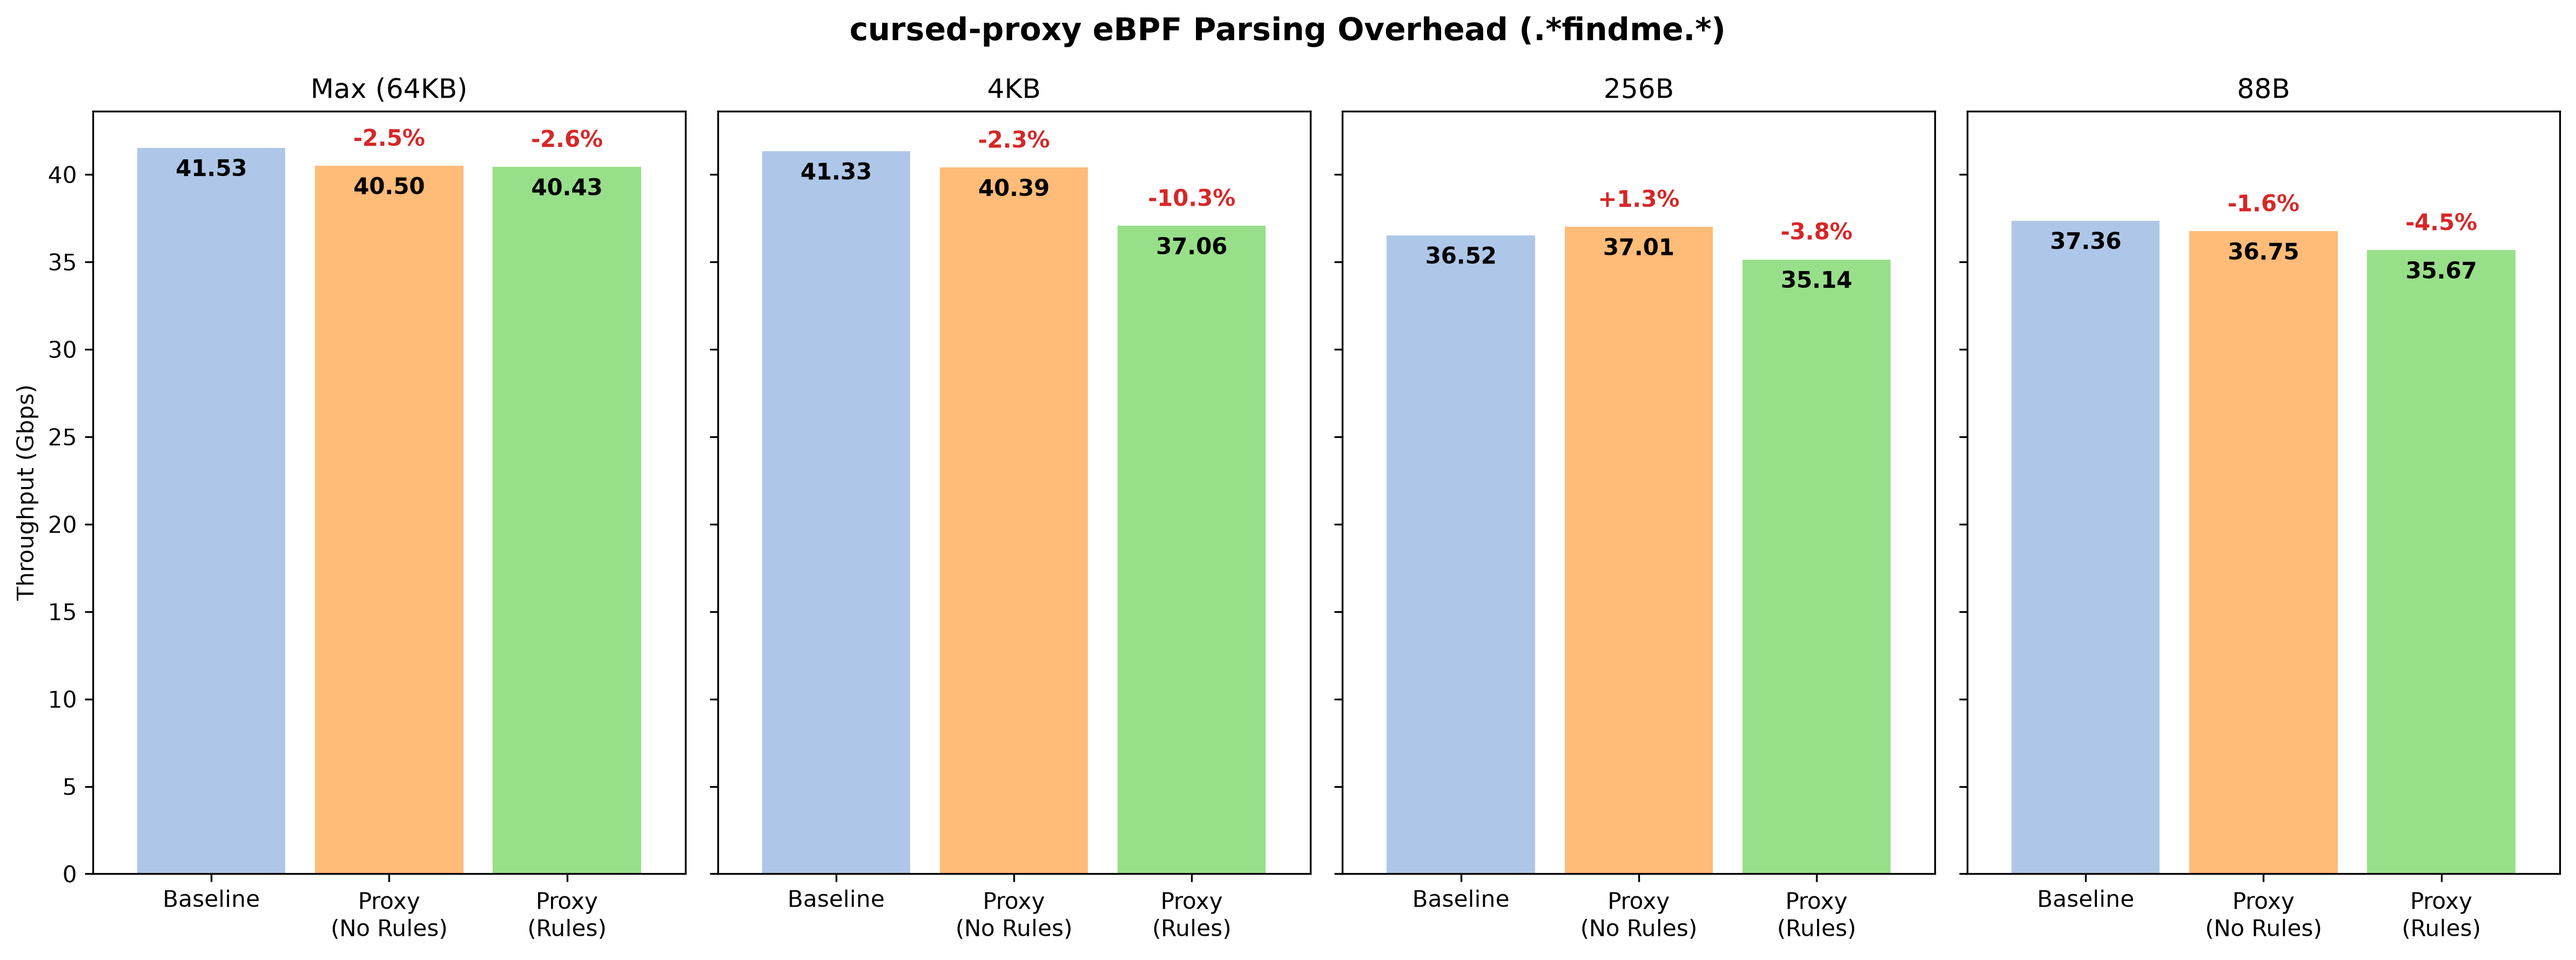
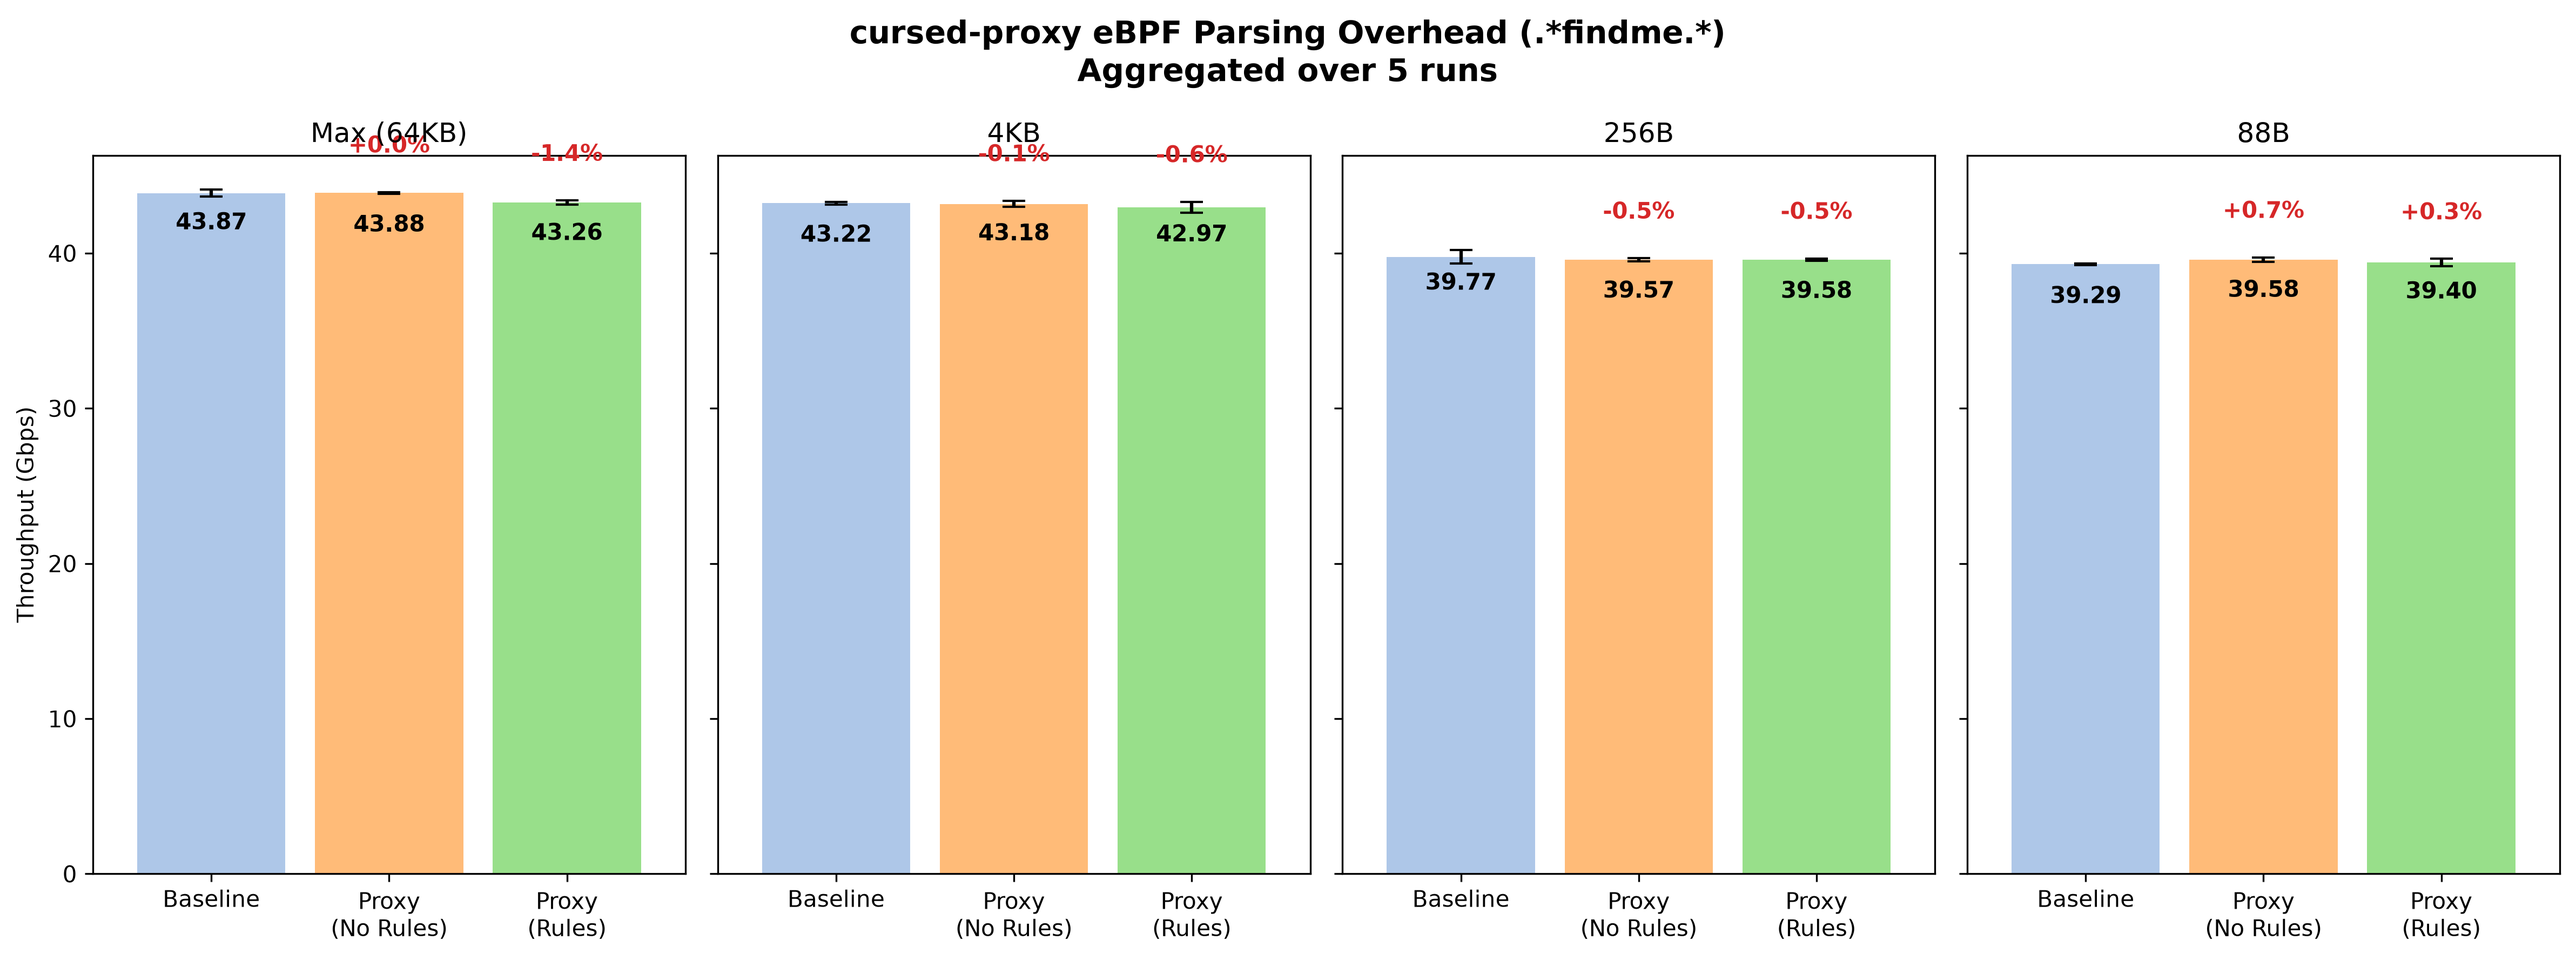
added benchmark to make

diff --git a/packages/cursed_proxy/tests/benchmark.py b/packages/cursed_proxy/tests/benchmark.py
@@ -3,6 +3,8 @@ import multiprocessing
 import os
 import sys
 import time
+import random
+import statistics
 import matplotlib
 
 matplotlib.use('Agg')  # Fixes X11 authorization errors when running via sudo
@@ -17,12 +19,30 @@ DEFAULT_WARMUP = 3
 DEFAULT_PATTERN = ".*findme.*"
 PROXY_CONF = "benchmark_proxy.conf"
 
+SERVER_IP = "10.254.254.1"
+CLIENT_IP = "10.254.254.2"
+VETH_SERVER = "cproxy_veth0"
+VETH_CLIENT = "cproxy_veth1"
+
+def setup_veth_pair():
+    print(f"Setting up veth pair: {VETH_SERVER} <-> {VETH_CLIENT}")
+    subprocess.run(["ip", "link", "add", VETH_SERVER, "type", "veth", "peer", "name", VETH_CLIENT], check=True, stdout=subprocess.DEVNULL)
+    subprocess.run(["ip", "addr", "add", f"{SERVER_IP}/24", "dev", VETH_SERVER], check=True, stdout=subprocess.DEVNULL)
+    subprocess.run(["ip", "addr", "add", f"{CLIENT_IP}/24", "dev", VETH_CLIENT], check=True, stdout=subprocess.DEVNULL)
+    subprocess.run(["ip", "link", "set", VETH_SERVER, "up"], check=True, stdout=subprocess.DEVNULL)
+    subprocess.run(["ip", "link", "set", VETH_CLIENT, "up"], check=True, stdout=subprocess.DEVNULL)
+    # wait for interfaces to be fully ready
+    time.sleep(1)
+
+def teardown_veth_pair():
+    subprocess.run(["ip", "link", "del", VETH_SERVER], stderr=subprocess.DEVNULL, stdout=subprocess.DEVNULL)
 
 def run_iperf_server(port):
     """Run iperf3 server in an infinite loop."""
     while True:
         server = iperf3.Server()
         server.port = port
+        server.bind_address = SERVER_IP
         server.run()
         # Clean up the server object to avoid state issues between connections
         del server
@@ -30,7 +50,7 @@ def run_iperf_server(port):
 
 def run_iperf_client(port, duration, blksize=None):
     """Run iperf3 client and return bits per second."""
-    cmd = ["iperf3", "-c", "127.0.0.1", "-p", str(port), "-t", str(duration), "-J"]
+    cmd = ["iperf3", "-c", SERVER_IP, "-B", CLIENT_IP, "-p", str(port), "-t", str(duration), "-J"]
     if blksize:
         # Use TCP MSS (-M) to simulate small packets on the network without syscall overhead
         cmd.extend(["-M", str(blksize)])
@@ -53,7 +73,7 @@ def run_iperf_client(port, duration, blksize=None):
 
 def run_iperf_warmup(port, duration, blksize=None):
     """Short iperf3 run to warm up kernel caches."""
-    cmd = ["iperf3", "-c", "127.0.0.1", "-p", str(port), "-t", str(duration), "-Z"]
+    cmd = ["iperf3", "-c", SERVER_IP, "-B", CLIENT_IP, "-p", str(port), "-t", str(duration), "-Z"]
     if blksize:
         cmd.extend(["-M", str(blksize)])
         
@@ -75,6 +95,7 @@ def parse_args():
     parser.add_argument("-p", "--port", type=int, default=DEFAULT_PORT, help=f"iperf3 server port (default: {DEFAULT_PORT})")
     parser.add_argument("-t", "--time", type=int, default=DEFAULT_TIME, help=f"iperf3 test duration in seconds (default: {DEFAULT_TIME})")
     parser.add_argument("-w", "--warmup", type=int, default=DEFAULT_WARMUP, help=f"warmup duration in seconds (default: {DEFAULT_WARMUP})")
+    parser.add_argument("-r", "--runs", type=int, default=5, help="Number of times to run the suite for statistical significance (default: 5)")
     parser.add_argument("--pattern", type=str, default=DEFAULT_PATTERN, help=f"DFA pattern to benchmark (default: '{DEFAULT_PATTERN}')")
     parser.add_argument("--out-png", type=str, default="benchmark_results.png", help="Output PNG file for the chart")
     parser.add_argument("--out-txt", type=str, default="benchmark_results.txt", help="Output TXT file for the results")
@@ -82,79 +103,79 @@ def parse_args():
 
 
 def plot_results(results, simulations, args):
+    # Sort simulations back to canonical order since they were randomized
     labels = [sim["name"] for sim in simulations]
 
-    # We create subplots for each simulation. Sharing Y-axis as requested.
     fig, axes = plt.subplots(1, len(labels), figsize=(16, 6), sharey=True)
     if len(labels) == 1:
         axes = [axes]
 
-    pastel_colors = ['#aec7e8', '#ffbb78', '#98df8a']  # Pastel Blue, Pastel Orange, Pastel Green
+    pastel_colors = ['#aec7e8', '#ffbb78', '#98df8a']
 
     # Calculate global max for padding text
-    all_vals = [results["Baseline"].get(n, 0) / 1e9 for n in labels] + \
-               [results["Proxy (No Rules)"].get(n, 0) / 1e9 for n in labels] + \
-               [results["Proxy"].get(n, 0) / 1e9 for n in labels]
+    all_vals = [results["Baseline"].get(n, {}).get("mean", 0) / 1e9 for n in labels] + \
+               [results["Proxy (No Rules)"].get(n, {}).get("mean", 0) / 1e9 for n in labels] + \
+               [results["Proxy"].get(n, {}).get("mean", 0) / 1e9 for n in labels]
     global_max = max(all_vals) if all_vals else 1
 
     for i, sim_name in enumerate(labels):
         ax = axes[i]
-        b_val = results["Baseline"].get(sim_name, 0) / 1e9
-        nr_val = results["Proxy (No Rules)"].get(sim_name, 0) / 1e9
-        p_val = results["Proxy"].get(sim_name, 0) / 1e9
+        b_mean = results["Baseline"].get(sim_name, {}).get("mean", 0) / 1e9
+        b_std = results["Baseline"].get(sim_name, {}).get("std", 0) / 1e9
+        nr_mean = results["Proxy (No Rules)"].get(sim_name, {}).get("mean", 0) / 1e9
+        nr_std = results["Proxy (No Rules)"].get(sim_name, {}).get("std", 0) / 1e9
+        p_mean = results["Proxy"].get(sim_name, {}).get("mean", 0) / 1e9
+        p_std = results["Proxy"].get(sim_name, {}).get("std", 0) / 1e9
 
-        # Move bars closer together by specifying explicit, close X coordinates
         x_pos = [0, 0.6, 1.2]
-        bars = ax.bar(x_pos, [b_val, nr_val, p_val], color=pastel_colors, width=0.5)
+        bars = ax.bar(x_pos, [b_mean, nr_mean, p_mean], yerr=[b_std, nr_std, p_std], color=pastel_colors, width=0.5, capsize=5)
         ax.set_xticks(x_pos)
         ax.set_xticklabels(["Baseline", "Proxy\n(No Rules)", "Proxy\n(Rules)"])
-
-        # Set x limits to keep the grouped bars centered and looking thick/consistent
         ax.set_xlim(-0.4, 1.6)
 
-        # Add labels inside bars
-        ax.bar_label(bars, fmt='%.2f', padding=-15, fontsize=10, color='black', fontweight='bold')
+        ax.bar_label(bars, fmt='%.2f', padding=-20, fontsize=10, color='black', fontweight='bold')
 
-        # Add percentage drop above the proxy bars
-        if b_val > 0:
-            diff_nr = ((nr_val / b_val) - 1) * 100
-            diff_p = ((p_val / b_val) - 1) * 100
-            ax.text(0.6, nr_val + (global_max * 0.02), f"{diff_nr:+.1f}%", ha='center', va='bottom', color='#d62728', fontweight='bold')
-            ax.text(1.2, p_val + (global_max * 0.02), f"{diff_p:+.1f}%", ha='center', va='bottom', color='#d62728', fontweight='bold')
+        if b_mean > 0:
+            diff_nr = ((nr_mean / b_mean) - 1) * 100
+            diff_p = ((p_mean / b_mean) - 1) * 100
+            ax.text(0.6, nr_mean + (global_max * 0.05) + nr_std, f"{diff_nr:+.1f}%", ha='center', va='bottom', color='#d62728', fontweight='bold')
+            ax.text(1.2, p_mean + (global_max * 0.05) + p_std, f"{diff_p:+.1f}%", ha='center', va='bottom', color='#d62728', fontweight='bold')
 
         ax.set_title(sim_name)
-
         if i == 0:
             ax.set_ylabel("Throughput (Gbps)")
 
-    fig.suptitle(f'cursed-proxy eBPF Parsing Overhead ({args.pattern})', fontsize=14, fontweight='bold')
+    fig.suptitle(f'cursed-proxy eBPF Parsing Overhead ({args.pattern})\nAggregated over {args.runs} runs', fontsize=14, fontweight='bold')
     plt.tight_layout()
-
     plt.savefig(args.out_png, dpi=300, bbox_inches='tight')
-    print(f"Plot saved successfully as '{args.out_png}' in the current directory.")
+    print(f"Plot saved successfully as '{args.out_png}'.")
 
 
 def save_text_results(results, simulations, args):
     labels = [sim["name"] for sim in simulations]
     with open(args.out_txt, "w") as f:
         f.write("=== CURSED-PROXY BENCHMARK RESULTS ===\n\n")
-        f.write(f"Pattern: {args.pattern}\n\n")
+        f.write(f"Pattern: {args.pattern}\n")
+        f.write(f"Runs: {args.runs}\n\n")
         for sim_name in labels:
-            b_val = results["Baseline"].get(sim_name, 0) / 1e9
-            nr_val = results["Proxy (No Rules)"].get(sim_name, 0) / 1e9
-            p_val = results["Proxy"].get(sim_name, 0) / 1e9
+            b_val = results["Baseline"].get(sim_name, {}).get("mean", 0) / 1e9
+            b_std = results["Baseline"].get(sim_name, {}).get("std", 0) / 1e9
+            nr_val = results["Proxy (No Rules)"].get(sim_name, {}).get("mean", 0) / 1e9
+            nr_std = results["Proxy (No Rules)"].get(sim_name, {}).get("std", 0) / 1e9
+            p_val = results["Proxy"].get(sim_name, {}).get("mean", 0) / 1e9
+            p_std = results["Proxy"].get(sim_name, {}).get("std", 0) / 1e9
             
             f.write(f"{sim_name}:\n")
-            f.write(f"  Baseline:         {b_val:.2f} Gbps\n")
+            f.write(f"  Baseline:         {b_val:.2f} ± {b_std:.2f} Gbps\n")
             if b_val > 0:
                 drop_nr = (1 - (nr_val / b_val)) * 100
                 drop_p = (1 - (p_val / b_val)) * 100
-                f.write(f"  Proxy (No Rules): {nr_val:.2f} Gbps (Drop: {drop_nr:.1f}%)\n")
-                f.write(f"  Proxy (Rules):    {p_val:.2f} Gbps (Drop: {drop_p:.1f}%)\n\n")
+                f.write(f"  Proxy (No Rules): {nr_val:.2f} ± {nr_std:.2f} Gbps (Drop: {drop_nr:.1f}%)\n")
+                f.write(f"  Proxy (Rules):    {p_val:.2f} ± {p_std:.2f} Gbps (Drop: {drop_p:.1f}%)\n\n")
             else:
-                f.write(f"  Proxy (No Rules): {nr_val:.2f} Gbps\n")
-                f.write(f"  Proxy (Rules):    {p_val:.2f} Gbps\n\n")
-    print(f"Text results saved successfully as '{args.out_txt}' in the current directory.")
+                f.write(f"  Proxy (No Rules): {nr_val:.2f} ± {nr_std:.2f} Gbps\n")
+                f.write(f"  Proxy (Rules):    {p_val:.2f} ± {p_std:.2f} Gbps\n\n")
+    print(f"Text results saved successfully as '{args.out_txt}'.")
 
 
 def main():
@@ -163,13 +184,15 @@ def main():
         sys.exit(1)
 
     args = parse_args()
+    
+    # Always clean up any existing broken veth state
+    teardown_veth_pair()
+    setup_veth_pair()
 
     print("Starting iperf3 server (multiprocessing)...")
     server_process = multiprocessing.Process(target=run_iperf_server, args=(args.port,), daemon=True)
     server_process.start()
     time.sleep(1)  # wait for server to bind and start
-
-    results = {}
 
     try:
         simulations = [
@@ -178,53 +201,74 @@ def main():
             {"name": "256B", "blksize": 256},
             {"name": "88B", "blksize": 88},
         ]
-
-        # 1. Baselines
-        print("Running baseline warm-up (discarded)...")
-        run_iperf_warmup(args.port, args.warmup)
-
-        print("Running baselines (no proxy)...")
-        results["Baseline"] = {}
-        for sim in simulations:
-            print(f"  -> Baseline: {sim['name']}")
-            bps = run_iperf_client(args.port, args.time, blksize=sim["blksize"])
-            results["Baseline"][sim["name"]] = bps
-
-        results["Proxy (No Rules)"] = {}
-        results["Proxy"] = {}
-
-        print("Running proxy (no rules)...")
-        create_proxy_conf([], args.port, PROXY_CONF)
-
-        # Start proxy using the module directly
-        proxy_cmd = [sys.executable, "-m", "cursed_proxy", "-c", PROXY_CONF]
-        proxy_proc = subprocess.Popen(proxy_cmd, stdout=subprocess.DEVNULL, stderr=subprocess.DEVNULL)
-
-        # Give it time to compile DFA rules and load the eBPF program
-        time.sleep(2)
-
-        print("  -> Warming up proxy (discarded)...")
-        run_iperf_warmup(args.port, args.warmup)
-
-        for sim in simulations:
-            print(f"  -> Simulation (No Rules): {sim['name']}")
-            bps = run_iperf_client(args.port, args.time, blksize=sim["blksize"])
-            results["Proxy (No Rules)"][sim["name"]] = bps
-
-        print(f"Running scenario: {args.pattern}")
-        create_proxy_conf([args.pattern], args.port, PROXY_CONF)
         
-        # Give proxy time to detect config change and compile DFA
-        time.sleep(2)
+        raw_results = {
+            "Baseline": {s["name"]: [] for s in simulations},
+            "Proxy (No Rules)": {s["name"]: [] for s in simulations},
+            "Proxy": {s["name"]: [] for s in simulations},
+        }
 
-        for sim in simulations:
-            print(f"  -> Simulation (With Rules): {sim['name']}")
-            bps = run_iperf_client(args.port, args.time, blksize=sim["blksize"])
-            results["Proxy"][sim["name"]] = bps
+        print("Running global warm-up (discarded)...")
+        run_iperf_warmup(args.port, args.warmup)
 
-        # Stop proxy
-        proxy_proc.terminate()
-        proxy_proc.wait()
+        for run in range(args.runs):
+            print(f"\n--- Benchmark Run {run + 1}/{args.runs} ---")
+            
+            # Baseline
+            print("Running baselines (no proxy)...")
+            random.shuffle(simulations)
+            for sim in simulations:
+                print(f"  -> Baseline: {sim['name']}")
+                bps = run_iperf_client(args.port, args.time, blksize=sim["blksize"])
+                raw_results["Baseline"][sim["name"]].append(bps)
+
+            # Proxy No Rules
+            print("Running proxy (no rules)...")
+            create_proxy_conf([], args.port, PROXY_CONF)
+            proxy_cmd = [sys.executable, "-m", "cursed_proxy", "-c", PROXY_CONF, "-i", VETH_SERVER]
+            proxy_proc = subprocess.Popen(proxy_cmd, stdout=subprocess.DEVNULL, stderr=subprocess.DEVNULL)
+            time.sleep(2)
+            
+            random.shuffle(simulations)
+            for sim in simulations:
+                print(f"  -> Proxy (No Rules): {sim['name']}")
+                bps = run_iperf_client(args.port, args.time, blksize=sim["blksize"])
+                raw_results["Proxy (No Rules)"][sim["name"]].append(bps)
+                
+            # Proxy With Rules
+            print(f"Running scenario: {args.pattern}")
+            create_proxy_conf([args.pattern], args.port, PROXY_CONF)
+            time.sleep(2)
+            
+            random.shuffle(simulations)
+            for sim in simulations:
+                print(f"  -> Proxy (With Rules): {sim['name']}")
+                bps = run_iperf_client(args.port, args.time, blksize=sim["blksize"])
+                raw_results["Proxy"][sim["name"]].append(bps)
+                
+            proxy_proc.terminate()
+            proxy_proc.wait()
+            
+        # Process data
+        # Sort simulations to canonical order for consistent output
+        simulations = sorted(simulations, key=lambda x: {"Max (64KB)": 0, "4KB": 1, "256B": 2, "88B": 3}[x["name"]])
+        results = {}
+        for scenario, sims in raw_results.items():
+            results[scenario] = {}
+            for sim_name, vals in sims.items():
+                if args.runs >= 3:
+                    sorted_vals = sorted(vals)
+                    # trimmed mean drops min and max if we have enough runs
+                    if args.runs >= 5:
+                        valid_vals = sorted_vals[1:-1]
+                    else:
+                        valid_vals = sorted_vals
+                    mean = statistics.mean(valid_vals)
+                    std = statistics.stdev(valid_vals) if len(valid_vals) > 1 else 0.0
+                else:
+                    mean = statistics.mean(vals) if vals else 0.0
+                    std = 0.0
+                results[scenario][sim_name] = {"mean": mean, "std": std}
 
     finally:
         print("Stopping iperf3 server...")
@@ -232,6 +276,7 @@ def main():
         server_process.join()
         if os.path.exists(PROXY_CONF):
             os.remove(PROXY_CONF)
+        teardown_veth_pair()
 
     plot_results(results, simulations, args)
     save_text_results(results, simulations, args)
